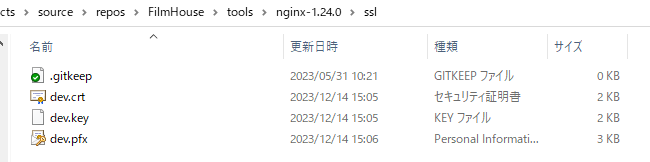
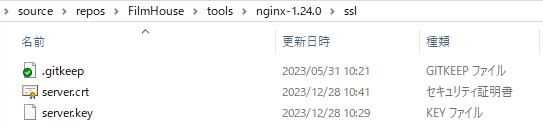
更新和調試nginx反向代理設置並針對ssl具體配置說明進行補充

diff --git a/src/FilmHouse.App.Presentation.Web.UI/Program.cs b/src/FilmHouse.App.Presentation.Web.UI/Program.cs
@@ -19,6 +19,7 @@ using FilmHouse.Web;
 using FilmHouse.Web.Configuration;
 using Microsoft.AspNetCore.DataProtection;
 using Microsoft.AspNetCore.Diagnostics;
+using Microsoft.AspNetCore.HttpOverrides;
 using Microsoft.AspNetCore.Mvc;
 using Microsoft.EntityFrameworkCore;
 using Microsoft.Extensions.Options;
@@ -367,6 +368,12 @@ void ConfigureMiddleware()
             await Task.CompletedTask;
         }));
     }
+
+    // 处理转发的头信息（其中包括客戶端請求host名和客戶端請求協議類型）
+    app.UseForwardedHeaders(new ForwardedHeadersOptions
+    {
+        ForwardedHeaders = ForwardedHeaders.XForwardedHost | ForwardedHeaders.XForwardedProto
+    });
 
     // 重定向到HTTPS
     app.UseHttpsRedirection();

diff --git a/document/program-implement/ssl.md b/document/program-implement/ssl.md
@@ -1,43 +1,55 @@
 
 ## 环境：
-1.安装Openssl (Win32/Win64 OpenSSL Installer for Windows - Shining Light Productions (slproweb.com))  
-2.设置环境变量：  
-![环境](.\png\01.png)
-![环境](.\png\02.png)  
-
-配置文件修改：(`C:\Program Files\OpenSSL-Win64\bin\openssl.cfg`)  
-`dir = ./demoCA  => dir = E:/localshare/share/MyProjects/source/demoCA`  
-注意：dir在cfg内容中有两处出现。  
-（以避免因为文件系统访问权限受阻而无法作成文件）  
-另外，环境还需要做以下准备：  
-在ca证书作成目录内需要有newcerts文件夹和index.txt以及serial  
-newcerts文件夹(初始内容为空)：用于存放pem证书  
-index.txt文件(初始内容为空)：内容是subj内容  
-serial文件(初始内容是不超过20位的16进制序列)：由CA维护的为它所发的每个证书分配的一的序列号，用来追踪和撤销证书  
+  1.安装Openssl (Win32/Win64 OpenSSL Installer for Windows - Shining Light Productions (slproweb.com))  
+  2.设置环境变量：  
+  ![环境](.\png\01.png)
+  ![环境](.\png\02.png)  
   
-
+  配置文件修改：(`C:\Program Files\OpenSSL-Win64\bin\openssl.cfg`)  
+  `dir = ./devCA  => dir = E:/localshare/share/MyProjects/source/devCA`  
+  注意：dir在cfg内容中有两处出现。  
+  （以避免因为文件系统访问权限受阻而无法作成文件）  
+  另外，环境还需要做以下准备：  
+  在ca证书作成目录内需要有newcerts文件夹和index.txt以及serial  
+  newcerts文件夹(初始内容为空)：用于存放pem证书  
+  index.txt文件(初始内容为空)：内容是subj内容  
+  serial文件(初始内容是不超过20位的16进制序列)：由CA维护的为它所发的每个证书分配的一的序列号，用来追踪和撤销证书  
+  
 ## 生成CA根证书
-生成根CA密钥 (使用-des3 对密码123456进行加密并作成一个2024位长度的私钥文件)  
-`openssl genrsa -des3 -out dev.key 2048`  
+  生成根CA密钥 (使用-des3 对密码123456进行加密并作成一个2024位长度的私钥文件)  
+  `openssl genrsa -des3 -out devCA.key 2048`  
 生成根证书并且自签名 (用自己的私钥和证书申请文件生成自己签名的证书，俗称自签名证书，这里可以理解为根证书)  
-`openssl req -new -x509 -days 365 -key dev.key -out dev.crt -subj "/C=CN/ST=shanghai/L=shanghai/O=Home/CN=FilmHouse.com"`  
-
-## 证书转换
-将PEM转换为PKCS12 【使用私钥（key）和证书（crt），并将它们组合成一个PKCS12文件（pfx）】  
-`openssl pkcs12 -inkey dev.key -in dev.crt -export -out dev.pfx`  
-
+  `openssl req -new -x509 -days 365 -key devCA.key -out devCA.crt -subj "/C=CN/ST=shanghai/L=shanghai/O=Tonyzhangshi/CN=FilmHouse.com"`  
+  
+## 生成服务器秘钥和证书签名请求(CSR):
+  `openssl genrsa -des3 -out server.key 2048`
+  `openssl req -new -key server.key -out server.csr -subj "/C=CN/ST=shanghai/L=shanghai/O=Tonyzhangshi/CN=FilmHouse.com"`
+  
+## 使用自制的CA生成签名服务器证书：
+  `openssl x509 -req -days 3650 -in server.csr -CA devCA.crt -CAkey devCA.key -CAcreateserial -out server.crt`
+  
 ## nginx ssl 部署
-将key、crt、pfx文件放置于nginx环境下的ssl目录内  
-![环境](.\png\06.png)  
-
+  将key、crt文件放置于nginx环境下的ssl目录内
+  ![环境](.\png\06.png)  
+  
+## 开发环境（作为server端）CA证书安装
+  ![环境](.\png\08.png)  
+  
 ## nginx启动
-nginx配置验证  
-`nginx -t`  
-![环境](.\png\07.png)  
-
-启动  
-`\tye-app\nginx_reload.bat`  
-`\tye-app\nginx_start.bat`  
-
+  nginx配置验证（需要提供自签名证书密码）  
+  `nginx -t`  
+  ![环境](.\png\07.png)  
+  
+  启动 (每个执行过程中都需要提供自签名证书密码)
+  `\tye-app\nginx_start.bat`  
+  `\tye-app\nginx_reload.bat`  
+  
 ## tye启动
-`\tye-app\tye_run.bat`  
+  `\tye-app\tye_run.bat`  
+  ![环境](.\png\09.png)  
+  
+## 需要注意
+  因为服务器证书设定了验证密码，当nginx启动时需要提供密码，否则无法启动
+  可以通过以下处理清除证书验证密码后再发布至ssl目录，以免Nginx无法启动网页
+  `openssl rsa -in server.key -out server_nopass.key`
+  (再将其以server.key为名进行同名覆盖后再启动nginx)
